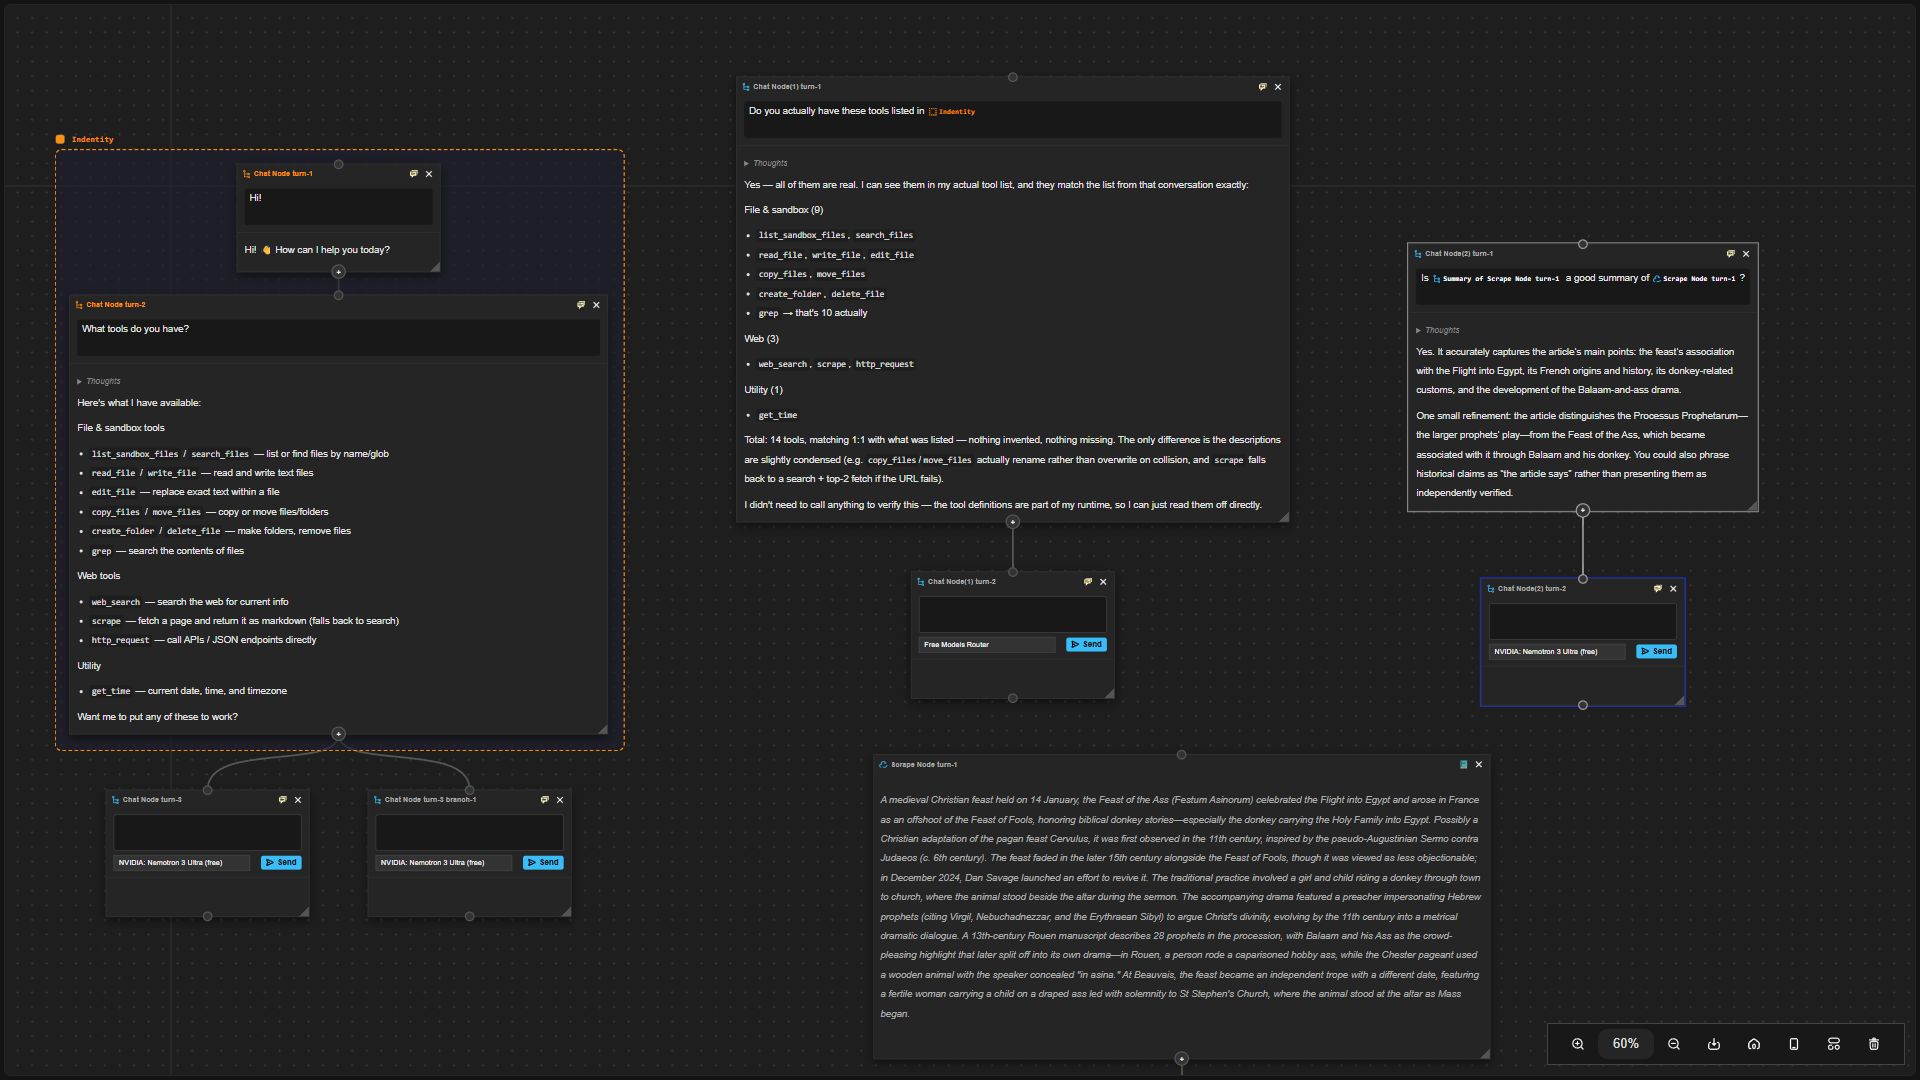
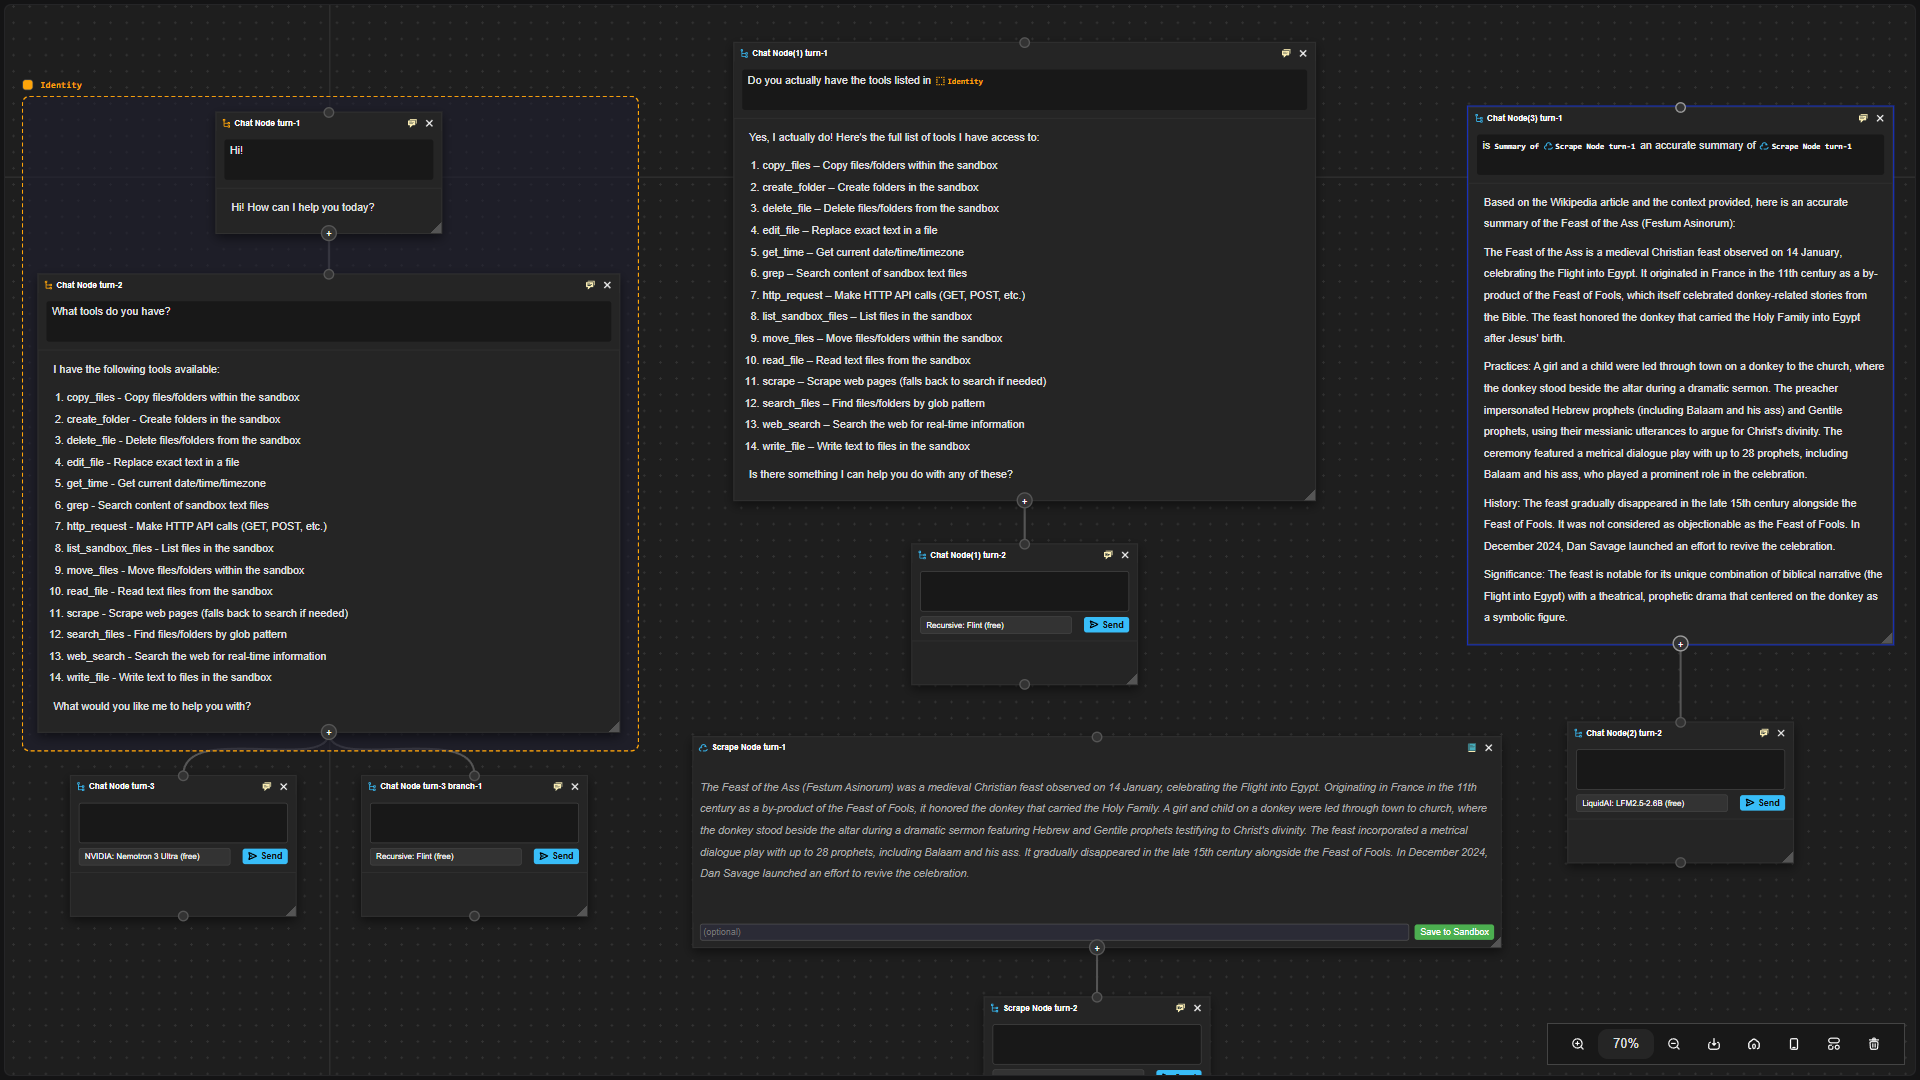
Update README formatting and replace canvas and focus images

diff --git a/README.md b/README.md
@@ -4,9 +4,9 @@
 
 FlowChat reimagines LLM interaction as a **spatial canvas** where conversations branch, fork, and reference each other visually. Built on FastAPI and vanilla JS, it combines infinite canvas with the power of tool-enabled LLMs.
 
-| Canvas                             | Focus                            |
-| ---------------------------------- | -------------------------------- |
-| ![canvas](image/README/canvas.png) | ![focus](image/README/focus.png) |
+| Canvas                             | Focus                             |
+| ---------------------------------- | --------------------------------- |
+| ![canvas](image/README/canvas.png) | ![focus](image/README/focus.png)  |
 
 ---
 
